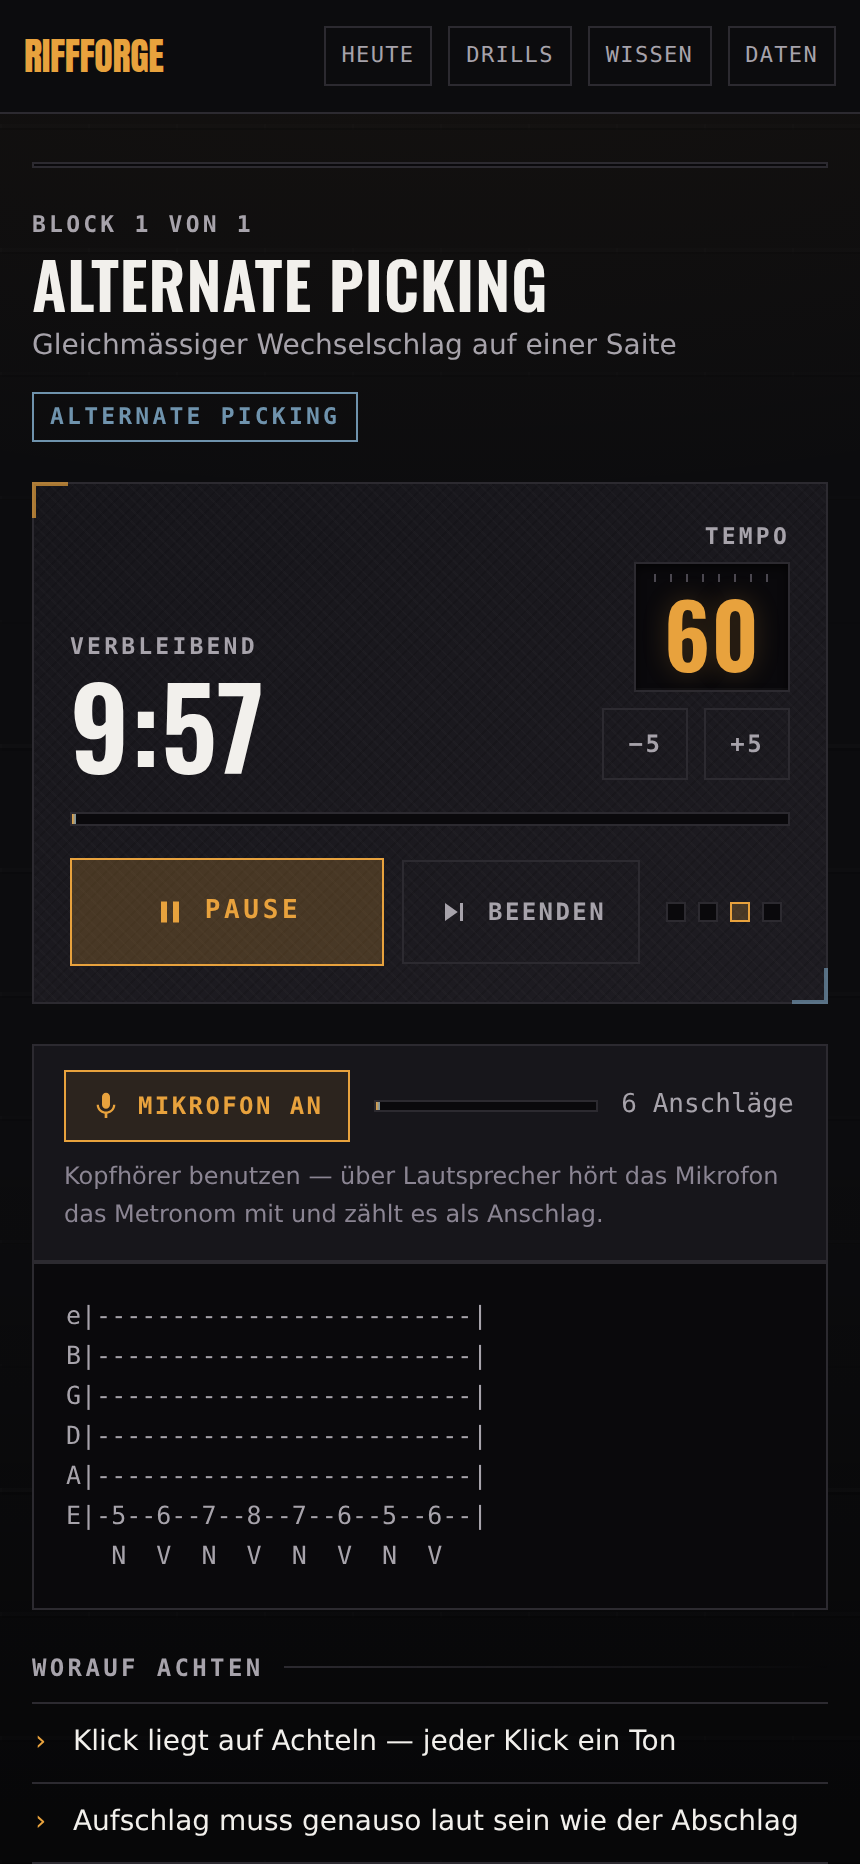
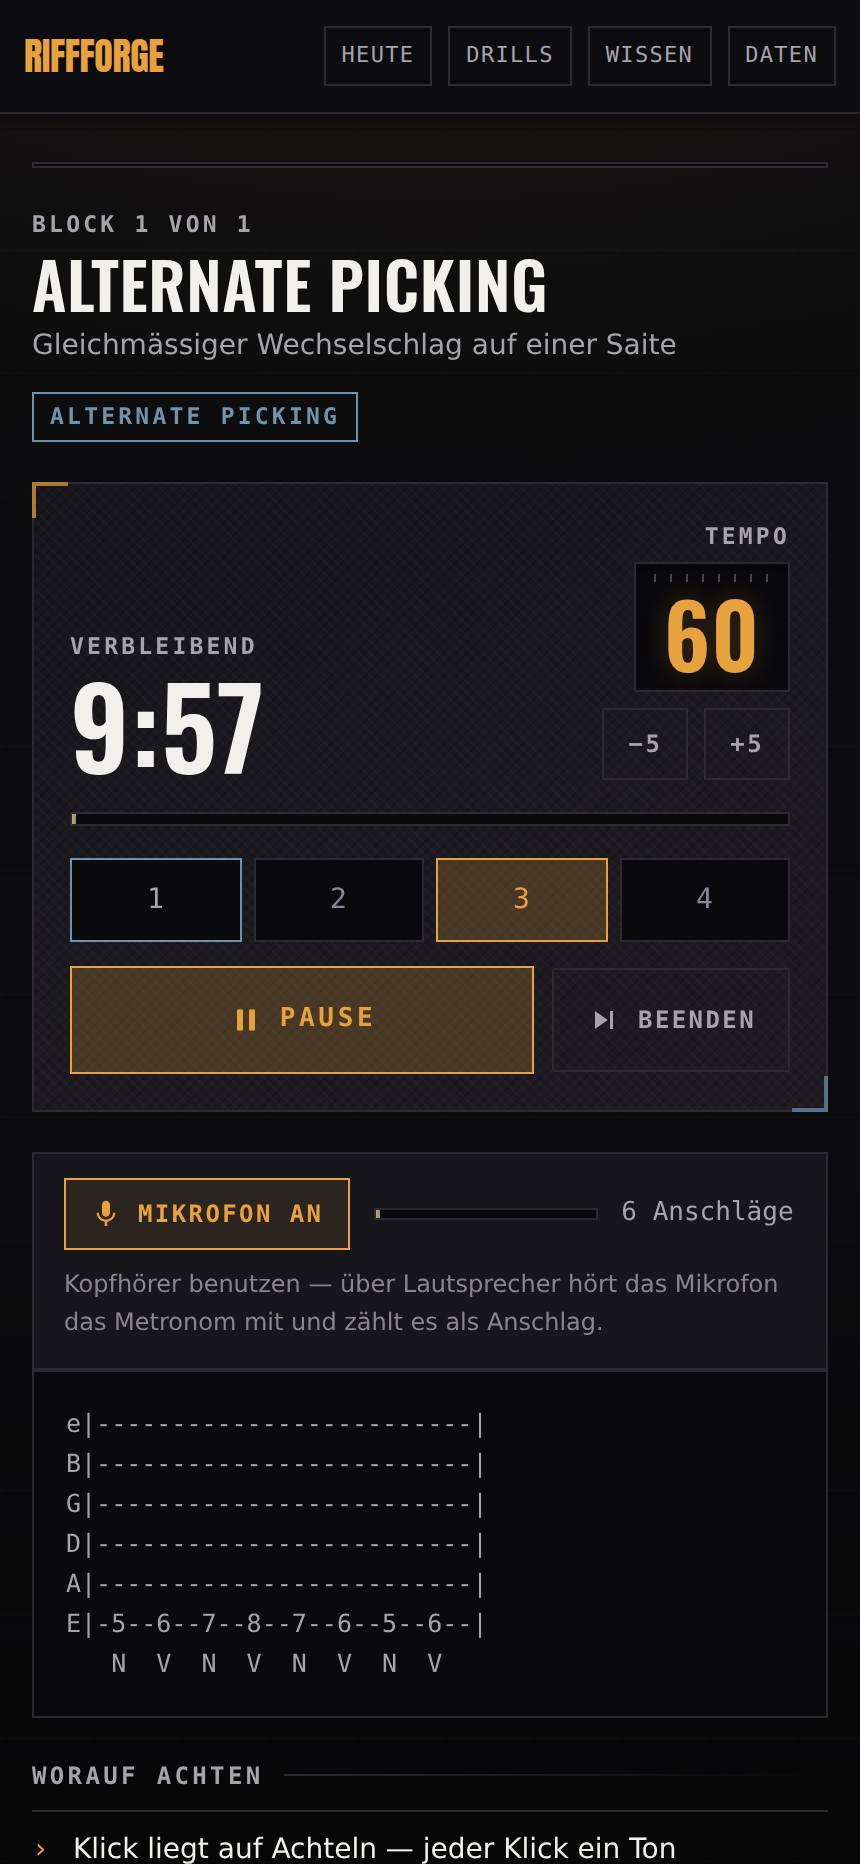
Der Taktzähler wird gross — er ist eine Spielhilfe
Daniel beim Üben: „Das Metronom ist zu klein, wenn man es auch als visuelle
Hilfe verwendet."

Der Befund trifft nicht nur die Grösse, sondern die Rolle. Der Zähler war vier
Quadrate von zehn Pixeln, und er sass in der Knopfreihe zwischen Pause und
Beenden. Als Anzeige zum Ablesen genügt das. Als Hilfe beim Spielen nicht: wer
das Gerät auf dem Notenständer hat und auf die Griffhand schaut, nimmt im
Augenwinkel Fläche und Helligkeitswechsel wahr, keine Formen — und die
Knopfreihe ist ausserdem die Stelle, zu der man sieht, wenn man drücken will,
nicht wenn man spielt.

Jetzt über die volle Breite, 42 px hoch, mit der Schlagzahl im Feld, und über
den Knöpfen statt zwischen ihnen. Die Eins bleibt auch im Ruhezustand
markiert — stahlblau statt Linienfarbe —, damit man nach einem Blick zur
Griffhand wiederfindet, wo der Takt anfängt; ein Feld, das sich nur beim
Aufleuchten unterscheidet, sagt das nicht.

Was bewusst so bleibt: gezählt werden Schläge, nicht Klicks. Sieben der
neunzehn Drills klicken auf Achteln, und `beatInBar` hält deshalb über zwei
Klicks. Acht Wechsel je Takt wären im Augenwinkel ein Flackern statt eines
Pulses, und der Puls ist die Auskunft — die Unterteilung hört man ohnehin.

Geprüft: 491 Tests, Typen und Lint grün, Breiten bei 320/390/1280 sauber,
drive und offline ohne Befund. Im Browser mit laufendem Metronom angesehen.
Screenshots neu.

Claude-Session: https://claude.ai/code/session_012LvptsAaijysVFdLtB85w5

diff --git a/components/session/beat-indicator.tsx b/components/session/beat-indicator.tsx
@@ -1,20 +1,47 @@
+/**
+ * Der Taktzähler — und zwar gross genug, um ihn zu benutzen.
+ *
+ * Er war zehn Pixel breit und sass in der Knopfreihe. Das genügt, um im
+ * Stehen den Takt abzulesen, aber nicht als *Hilfe beim Spielen*: wer das
+ * Gerät auf dem Notenständer hat und dabei auf die Griffhand schaut, nimmt
+ * im Augenwinkel nur Fläche und Helligkeitswechsel wahr, keine Formen. Also
+ * über die ganze Breite und hoch genug, dass der Wechsel dort ankommt — und
+ * weg aus der Knopfreihe, denn dorthin sieht man, wenn man drücken will.
+ *
+ * Gezählt werden **Schläge, nicht Klicks**. Bei einem Drill mit Klick auf
+ * Achteln blinkte er sonst achtmal je Takt, und acht Wechsel je Takt sind im
+ * Augenwinkel ein Flackern statt eines Pulses. Der Puls ist die Auskunft;
+ * die Unterteilung hört man ohnehin.
+ *
+ * Die Eins ist auch im Ruhezustand markiert. Wer den Blick kurz abwendet,
+ * muss beim Zurückschauen wissen, wo der Takt anfängt — ein Feld, das nur
+ * beim Aufleuchten anders aussieht, sagt das nicht.
+ */
 export function BeatIndicator({ beatInBar, beatsPerBar }: { beatInBar: number; beatsPerBar: number }) {
   return (
-    <div className="flex flex-none items-center gap-[6px] px-1" aria-hidden>
+    <div
+      className="grid gap-[6px]"
+      style={{ gridTemplateColumns: `repeat(${beatsPerBar}, minmax(0, 1fr))` }}
+      aria-hidden
+    >
       {Array.from({ length: beatsPerBar }, (_, index) => {
         const active = index === beatInBar
-        const downbeat = index === 0
+        const eins = index === 0
         return (
           <span
             key={index}
-            className={`h-[10px] w-[10px] border transition-colors duration-75 ${
+            className={`ziffern flex h-[42px] items-center justify-center border text-[14px] transition-colors duration-75 ${
               active
-                ? downbeat
-                  ? "border-akzent bg-akzent"
-                  : "border-akzent bg-[--tint-akzent-stark]"
-                : "border-line bg-sunken"
+                ? eins
+                  ? "border-akzent bg-akzent font-bold text-bg"
+                  : "border-akzent bg-[--tint-akzent-stark] text-akzent"
+                : eins
+                  ? "border-stahl bg-sunken text-muted"
+                  : "border-line bg-sunken text-dim"
             }`}
-          />
+          >
+            {index + 1}
+          </span>
         )
       })}
     </div>

diff --git a/components/session/block-runner.tsx b/components/session/block-runner.tsx
@@ -278,7 +278,14 @@ export function BlockRunner({ block, index, total, onComplete }: BlockRunnerProp
           <i style={{ width: `${progress}%` }} />
         </div>
 
-        <div className="mt-4 flex flex-wrap items-center gap-[9px]">
+        {/* Der Taktzähler steht über den Knöpfen und über die volle Breite:
+            er ist eine Hilfe beim Spielen, kein Bedienelement. In der
+            Knopfreihe sass er dort, wohin man sieht, wenn man drücken will. */}
+        <div className="mt-4">
+          <BeatIndicator beatInBar={metronome.beatInBar} beatsPerBar={drill.beatsPerBar} />
+        </div>
+
+        <div className="mt-3 flex flex-wrap items-center gap-[9px]">
           <button onClick={toggle} className="btn flex-1">
             {timer.isRunning ? (
               <>
@@ -293,7 +300,6 @@ export function BlockRunner({ block, index, total, onComplete }: BlockRunnerProp
           <button onClick={finishPlaying} className="btn btn-ghost btn-small px-4 py-4">
             <MdSkipNext className="h-[18px] w-[18px]" /> Beenden
           </button>
-          <BeatIndicator beatInBar={metronome.beatInBar} beatsPerBar={drill.beatsPerBar} />
         </div>
       </div>
 

diff --git a/CLAUDE.md b/CLAUDE.md
@@ -148,6 +148,16 @@ Komponente.
   `.warnstreifen` markiert **nur verletzte Bedingungen** — Mikrofon
   verweigert, Fassung zurückgerollt, Abgleich gescheitert —, nie einen Fehler
   und nie Schmuck.
+- **Der Taktzähler ist eine Spielhilfe, kein Bedienelement.** Er stand als
+  vier Quadrate von zehn Pixeln in der Knopfreihe — genug zum Ablesen, aber
+  unbrauchbar für den, der das Gerät auf dem Notenständer hat: im Augenwinkel
+  kommen Fläche und Helligkeitswechsel an, keine Formen. Jetzt über die volle
+  Breite, 42 px hoch, und **über** den Knöpfen statt zwischen ihnen; in die
+  Knopfreihe sieht man, wenn man drücken will. Gezählt werden **Schläge,
+  nicht Klicks**: bei Klick auf Achteln blinkte er sonst achtmal je Takt, und
+  acht Wechsel je Takt sind im Augenwinkel ein Flackern statt eines Pulses.
+  Die Eins bleibt auch im Ruhezustand markiert, damit man nach einem Blick
+  zur Griffhand wiederfindet, wo der Takt anfängt.
 - **Der Twist gehört dorthin, wo der Nutzer ist.** Als die vier Bauteile
   fertig waren, sass genau eines davon auf *Heute* — dem Bildschirm, der
   täglich aufgeht; der Rest lag hinter dem Startknopf oder in Fehlzuständen,
